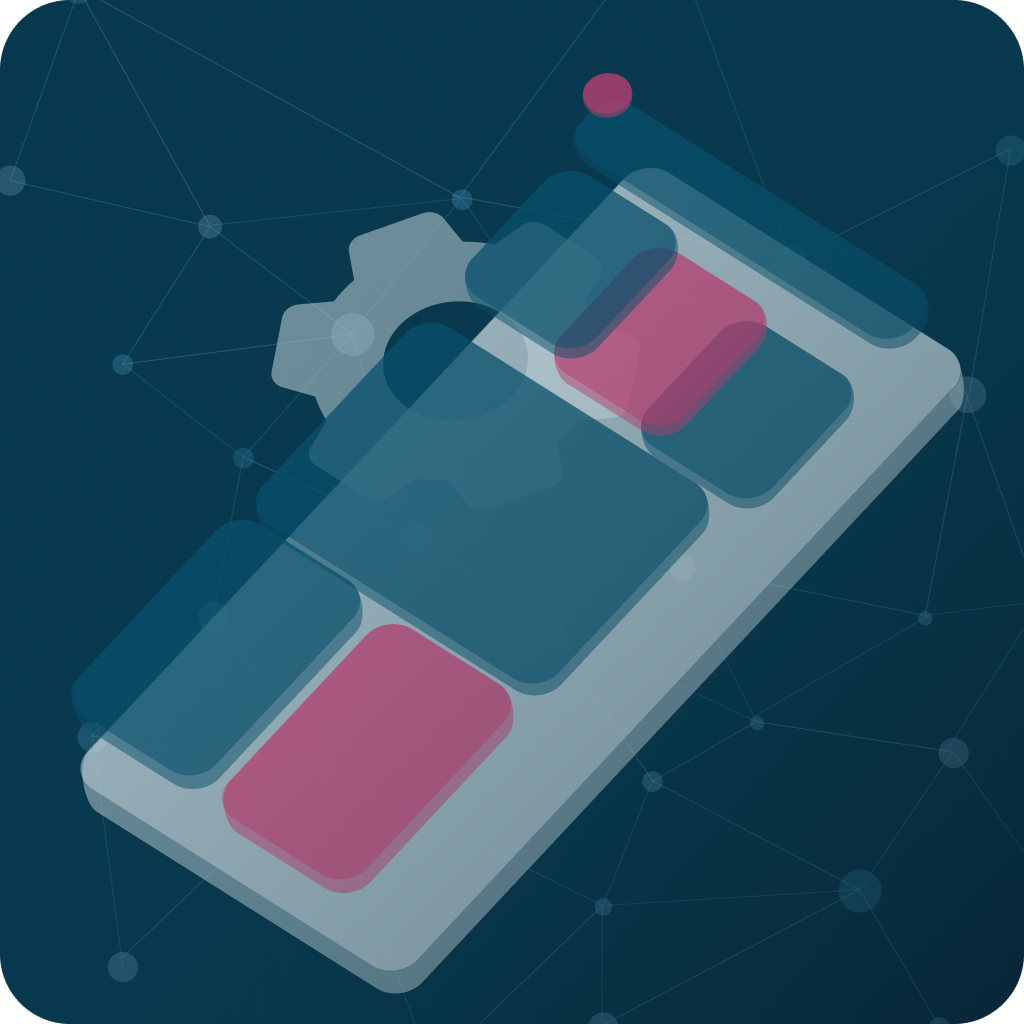
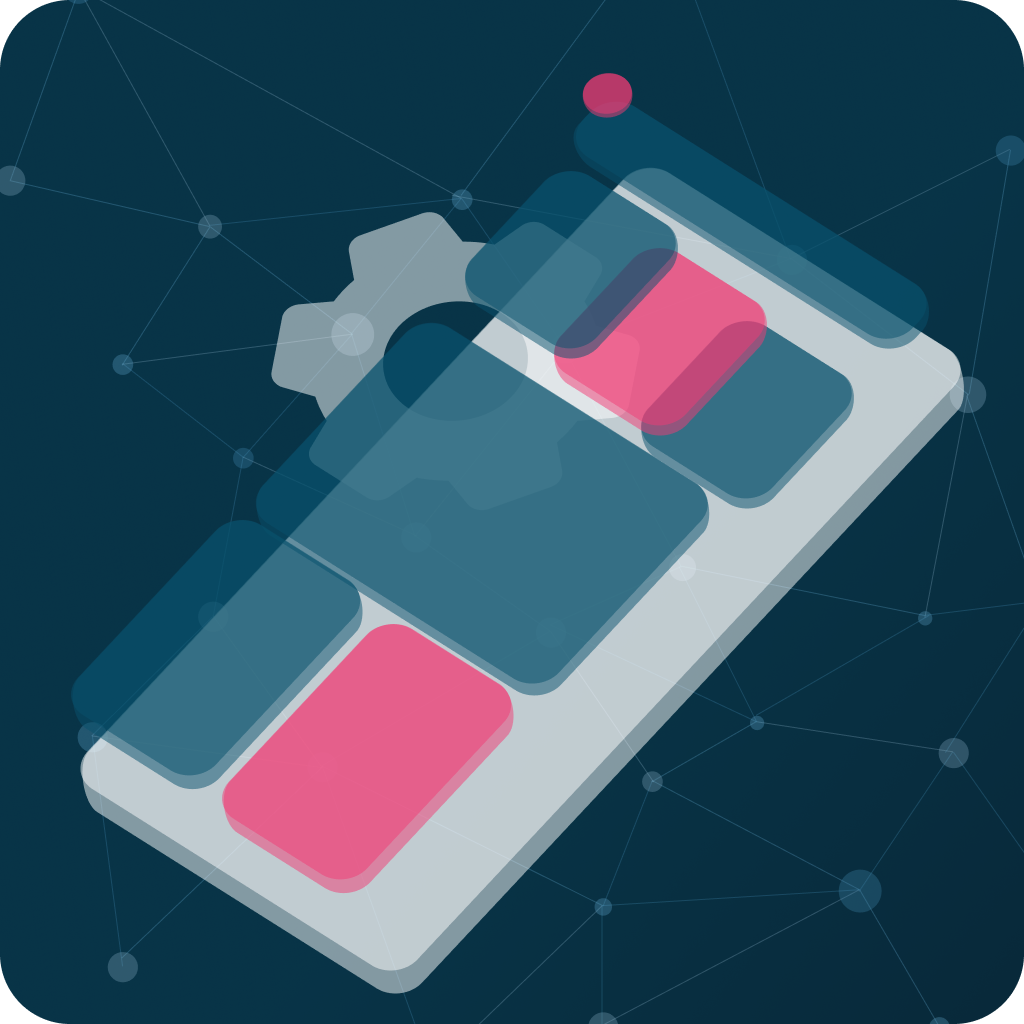
Polished Softwareentwicklung

diff --git a/styles/services/SoftwareHeader.module.scss b/styles/services/SoftwareHeader.module.scss
@@ -43,6 +43,10 @@
   background: #022636;
   overflow: visible;
   z-index: 20;
+  background-image: url("/images/Softwareentwicklung/particles.png");
+  background-repeat: repeat;
+  background-size: 30em 30em;
+  background-position: right;
 }
 .header .headerDiagonal {
   clip-path: polygon(0 0, 0% 100%, 100% 0);
@@ -53,6 +57,10 @@
   top: 0;
   left: 50%;
   z-index: 10;
+  background-image: url("/images/Softwareentwicklung/particles.png");
+  background-repeat: repeat;
+  background-size: 30em 30em;
+  background-position: left;
 }
 .header .headerText {
   position: absolute;
@@ -118,6 +126,7 @@
     flex: 0 0 50%;
     width: 100%;
     height: 50%;
+    background-position: bottom;
   }
   .header .headerText {
     position: relative;
@@ -133,6 +142,7 @@
     left: 0%;
     top: 50%;
     height: 4em;
+    background-position: top;
   }
 }
 @media screen and (max-width: 550px) {

diff --git a/components/services/AgileSection.tsx b/components/services/AgileSection.tsx
@@ -7,7 +7,7 @@ export default function AgileSection() {
 
     const texts = [
         <><p><MdPlayArrow className={styles.icon}/>Ausarbeitung der Anforderungen und Technologien</p></>,
-        <><p><MdPlayArrow className={styles.icon}/>Planung für die Implementierung</p></>,
+        <><p><MdPlayArrow className={styles.icon}/>Planung der Softwarestruktur und Erstellung des UI/UX-Design</p></>,
         <><p><MdPlayArrow className={styles.icon}/>Umsetzung der Anforderungen</p></>,
         <><p><MdPlayArrow className={styles.icon}/>Überprüfung und Bestätigung der Ergebnisse</p></>,
         <><p><MdPlayArrow className={styles.icon}/>Rücksprache im Team bzw. mit dem Kunden</p></>,

diff --git a/pages/Softwareentwicklung.tsx b/pages/Softwareentwicklung.tsx
@@ -31,7 +31,7 @@ const DevelopmentPage: NextPage = () => {
               digitalisiert werden.
             </p>,
           ]}
-          image="/images/Softwareentwicklung/smartphone.png"
+          image="/images/Softwareentwicklung/pc.png"
           imageAlt="Individualsoftware"
         />
         <ServiceSection

diff --git a/styles/services/AgileSection.module.scss b/styles/services/AgileSection.module.scss
@@ -24,13 +24,11 @@
 .agileSection p {
     font-size: 1.2em;
     color: #000;
-    display:flex;
-    justify-content: center;
-    align-items: center;
 }
 .agileSection .icon {
-    color: rgb(1, 80, 107);
+    color: #f13b74;
     font-size: 2em;
+    vertical-align: middle;
 }
 #flowChart{
     width: 50em;
